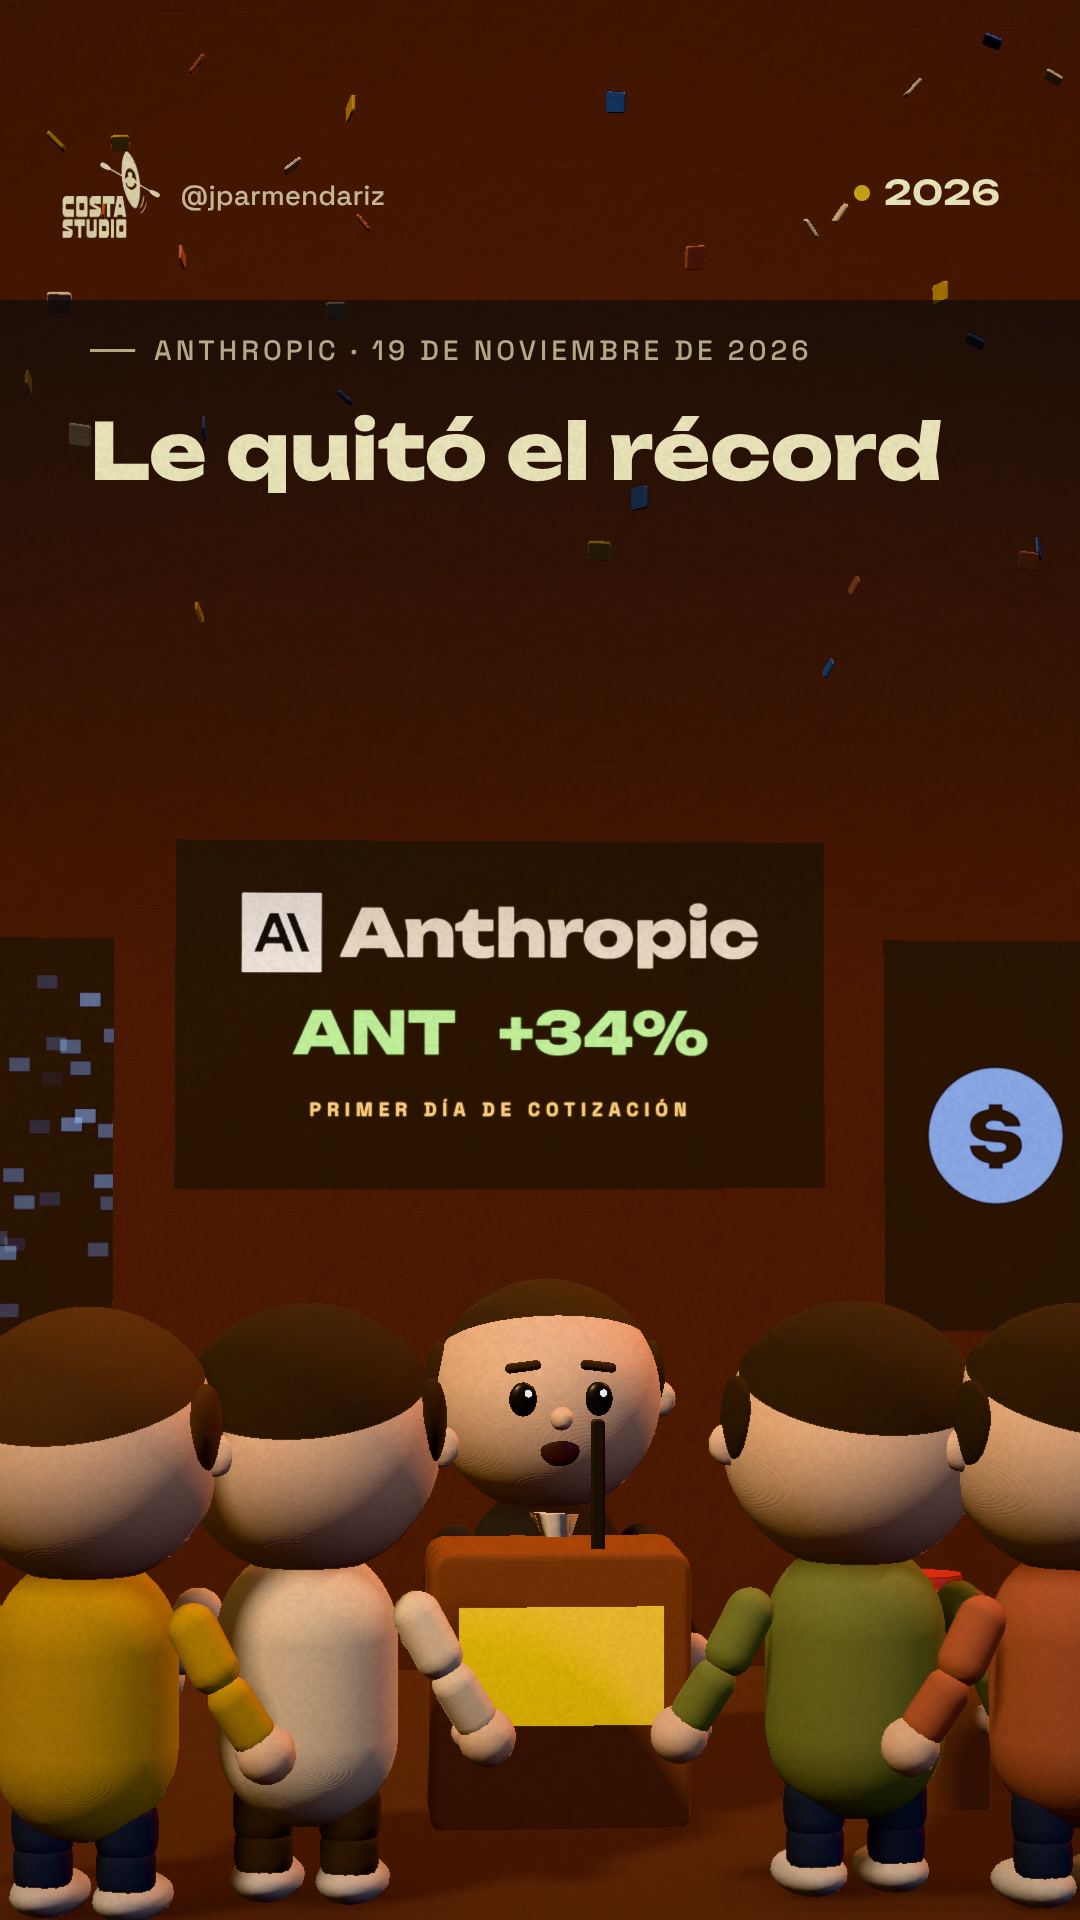
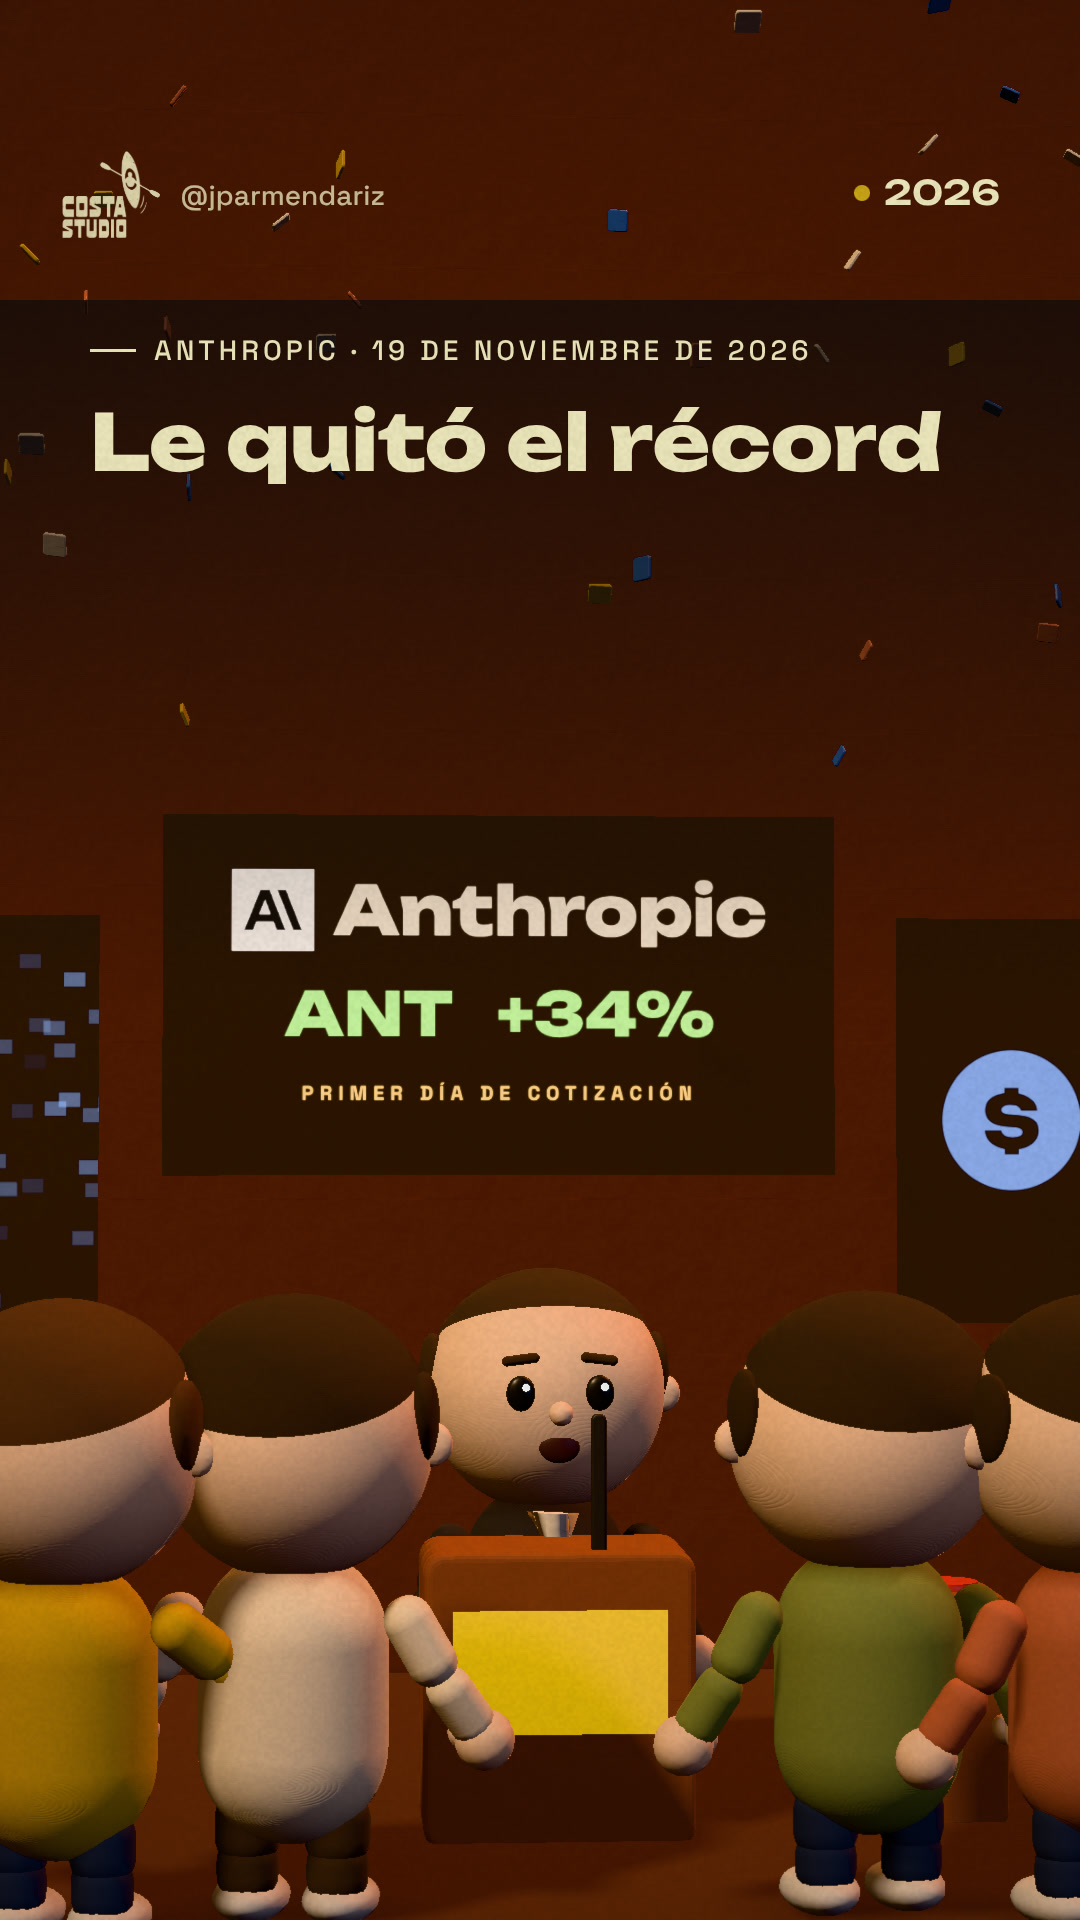
Arregla el cierre del gancho: la pantalla tapaba al orador
El arreglo de variedad de plano introdujo un defecto nuevo: al cerrar el
gancho en plano medio del orador, la pantalla del podio, que esta detras y
es mas ancha, llenaba el cuadro y su 'Anthropic' se encimaba con el
titular y con el logo de Costa Studio.

Dos cambios: la camara y su objetivo bajan al pecho del orador, y la
pantalla sube de y=4.3 a y=6.05 para quedar fuera del cuadro cerrado. En
el plano general del arranque la pantalla se sigue viendo entera, con el
logo oficial y el ticker, que es lo que pedia la regla de identificar a la
empresa en el gancho.

Lo encontro el barrido del MP4, no la hoja de QA: el defecto solo aparece
en el ultimo segundo de la escena.

Claude-Session: https://claude.ai/code/session_01FvjQ3qKsfHX4rzw8jtw3Rk

diff --git a/finance-videos/videos/2026-11-20-ANT-short3d/story.js b/finance-videos/videos/2026-11-20-ANT-short3d/story.js
@@ -70,7 +70,7 @@ const worlds = {
       g.fillStyle = '#9FD08A'; g.font = '800 68px Unbounded'; g.fillText('ANT   +34%', W2 / 2, 250);
       g.fillStyle = '#FFD98A'; g.font = '700 22px "Space Grotesk"'; g.letterSpacing = '7px';
       g.fillText('PRIMER DÍA DE COTIZACIÓN', W2 / 2, 322); g.letterSpacing = '0px'; }, 760);
-    pant.position.set(0, 4.3, -9.1); w.scene.add(pant);
+    pant.position.set(0, 6.05, -9.1); w.scene.add(pant);
     [[-3.3, 3.5], [3.3, 3.5]].forEach(([x, y], i) => { const l = letrero(L, 1.5, 2.6, 5 + i);
       l.position.set(x, y, -9.1); w.scene.add(l); });
     // el podio y quien habla
@@ -294,7 +294,7 @@ const scenes = [
     update(w, lt, t, L) {
       const p = P(lt, this), q = L.on2(t), talk = L.talkAt(L.CAPS, q);
       const k = L.eio(L.seg(p, .08, 1));
-      cam(w, mv([-1.4, 3.6, 14.6], [.45, 2.8, 2.2], k), mv([0, 4.5, -5.4], [.05, 2.5, -4.9], k), 30);
+      cam(w, mv([-1.4, 3.6, 14.6], [.45, 2.05, 2.4], k), mv([0, 5.6, -5.4], [.05, 1.85, -4.9], k), 30);
       const pulsa = L.eio(L.seg(p, .16, .3));
       w.boton.position.y = 1.16 - pulsa * .05 + (p > .36 ? .05 : 0);
       L.pose(w.orador, { talk, head: [0, .06, 0], armL: [.5, .3, .6], armR: [1.1 * L.seg(p, .3, .5), .4, .4], smile: .5, bob: Math.sin(q * 1.8) * .02 });
